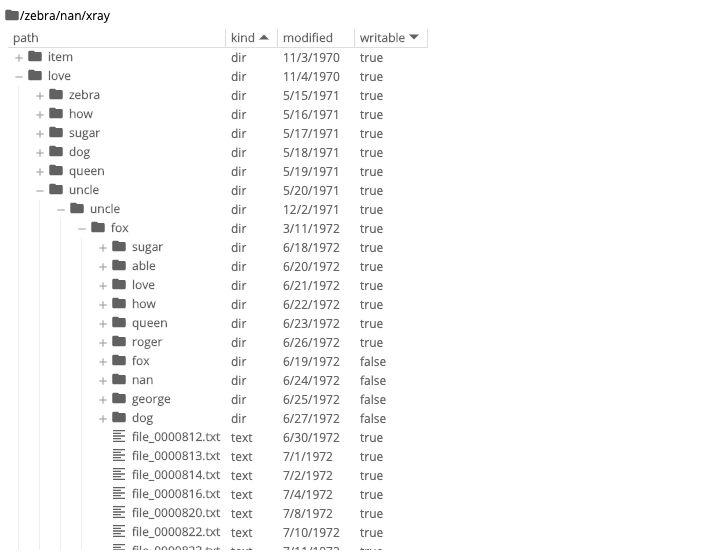
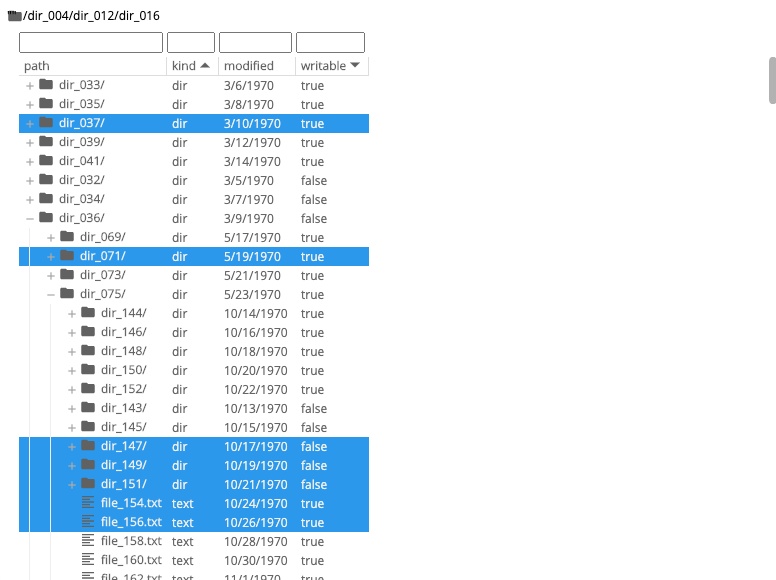
update README with new stuff like filters and selection

Changed region(s): [[0.0, 0.0, 0.5822, 1.0], [0.9805, 0.0922, 1.0, 0.1844]]

diff --git a/examples/html/basic_cdn.html b/examples/html/basic_cdn.html
@@ -57,12 +57,14 @@
       if (kind === "dir") {
         const getChildren = () => {
           const children = [];
-          for (let i = 0; i < N_CHILDREN; i++) {
+          const start = modDays;
+          const end = modDays + N_CHILDREN
+          for (let i = start; i < end; i++) {
             const ipad = `${i}`.padStart(3, "0");
 
             children.push(mockContent({
-              kind: i < N_DIRECTORIES ? "dir" : "text",
-              path: [...path, i < N_DIRECTORIES ? `dir_${ipad}` : `file_${ipad}.txt`],
+              kind: i < modDays + N_DIRECTORIES ? "dir" : "text",
+              path: [...path, i < modDays + N_DIRECTORIES ? `dir_${ipad}` : `file_${ipad}.txt`],
               modDays: modDays + i,
             }));
           }

diff --git a/examples/html/basic_local.html b/examples/html/basic_local.html
@@ -57,12 +57,14 @@
       if (kind === "dir") {
         const getChildren = () => {
           const children = [];
-          for (let i = 0; i < N_CHILDREN; i++) {
+          const start = modDays;
+          const end = modDays + N_CHILDREN
+          for (let i = start; i < end; i++) {
             const ipad = `${i}`.padStart(3, "0");
 
             children.push(mockContent({
-              kind: i < N_DIRECTORIES ? "dir" : "text",
-              path: [...path, i < N_DIRECTORIES ? `dir_${ipad}` : `file_${ipad}.txt`],
+              kind: i < modDays + N_DIRECTORIES ? "dir" : "text",
+              path: [...path, i < modDays + N_DIRECTORIES ? `dir_${ipad}` : `file_${ipad}.txt`],
               modDays: modDays + i,
             }));
           }

diff --git a/README.md b/README.md
@@ -16,6 +16,16 @@ a [custom element](https://developer.mozilla.org/en-US/docs/Web/Web_Components/U
 named `<tree-finder>`,
 which can be used to easily render filebrowers or other hierarchical trees. Only visible cells are rendered.
 
+## Features
+
+- [x] lazy data model and virtualized rendering -> can support billions of rows
+- [x] tree-like columns
+- [x] multi-sort
+- [x] multi-selection
+- [x] multi-filter
+- [x] built in breadcrumbs
+- [ ] drag-n-drop between multiple instances
+
 ## Examples - try `<tree-finder>` out live
 
 ||
